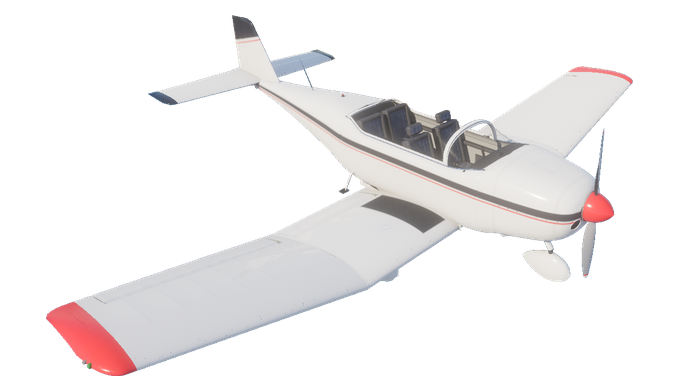
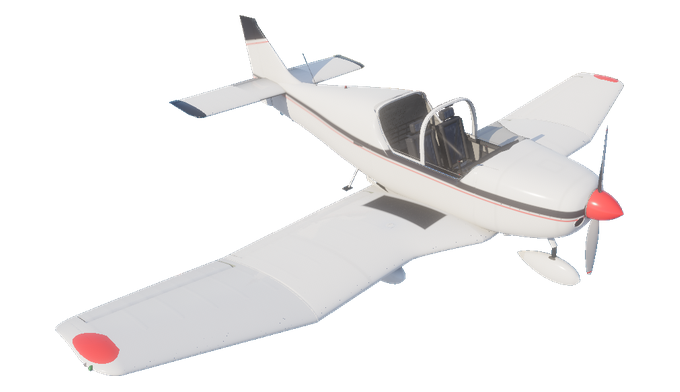
DR 400: grey panel and console, sources for the shape, new picker pictures

diff --git a/src/aircraft/dr400/mod.rs b/src/aircraft/dr400/mod.rs
@@ -18,6 +18,28 @@
 //! and oil door. The two round cooling inlets in the nose bowl are cut out
 //! of the skin there too (`inlet_dr400`), onto ducts built here.
 //!
+//! The shape was checked in Blender against these, overlaid in orthographic
+//! side, top and front views:
+//! - a three-view line drawing, "Dreiseitenansicht Robin DR 400.svg" by
+//!   Frank Murmann, CC BY 3.0,
+//!   <https://commons.wikimedia.org/wiki/File:Dreiseitenansicht_Robin_DR_400.svg>.
+//!   Its views are not drawn to one scale: the side view was scaled to the
+//!   6.96 m length (187.5 px/m at 2400 px wide), the top and front views to
+//!   the 8.72 m span (about 174 px/m). Read from it: the centre section out
+//!   to 2.63 m, tip chord about 0.93 m, the root glove 0.42 m ahead of the
+//!   leading edge, flap chord about 0.25 m, the canopy line from 0.60 m over
+//!   the windscreen frame to 0.15 m at the fin fillet, the belly from 0.74 m
+//!   under the cabin to 0.45 m under the rudder (heights from the hub).
+//! - side photographs of F-GNNE, "Robin DR400 F-GNNE at Blois in 2015" by
+//!   Mike Illien, CC BY 2.0, <https://commons.wikimedia.org/wiki/File:Robin_DR400_F-GNNE_at_Blois_in_2015.jpg>
+//!   (taken a little from ahead, so lengths there were not measured; it
+//!   settled the glazing ending behind the rear seats, the deep tail cone and
+//!   the gear's height), and a head-on photograph,
+//!   <https://commons.wikimedia.org/wiki/File:Robin_DR400-140B_Dauphin_-_front_view.jpg>,
+//!   showing the flat centre section running well past the main wheels.
+//! Where the drawing and the 2.23 m height disagree (it puts the fin 0.1 m
+//! higher), the height was kept.
+//!
 //! Body frame as everywhere: +X right, +Y up, -Z forward; the geometry is
 //! laid out in a design frame `DZ` ahead of it (see `DZ`).
 pub mod cabin;

diff --git a/src/aircraft/dr400/cabin.rs b/src/aircraft/dr400/cabin.rs
@@ -25,7 +25,8 @@ const APEX_Z: f32 = -0.26;
 /// The footwell's front wall, just aft of the firewall.
 const TOE_Z: f32 = FIREWALL_Z + 0.05;
 
-const PANEL_COL: Mat = mt(mat::PLASTIC, 0.030, 0.031, 0.034);
+/// The Robin's panel and console: a medium grey, the instruments black in it.
+const PANEL_COL: Mat = mt(mat::PLASTIC, 0.105, 0.11, 0.12);
 const TRIM: Mat = mt(mat::PLASTIC, 0.30, 0.295, 0.28);
 /// Dark leatherette: seat bolsters, armrests, the sill pads.
 const VINYL: Mat = mt(mat::PLASTIC, 0.038, 0.039, 0.043);
